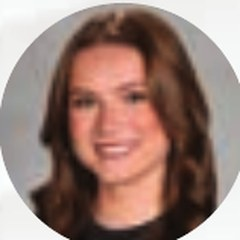
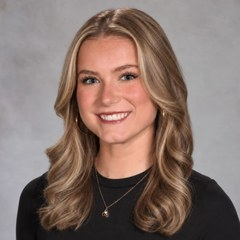
Use Alyssa Aucoin's new headshot on Strength in Numbers
Claude-Session: https://claude.ai/code/session_013rjN9eXsQUGtogBW2y87jx

diff --git a/index.html b/index.html
@@ -133,7 +133,7 @@
                   <li><img src="img/faces/hannah-webster.jpg?v=2" alt="" loading="lazy"><span>Hannah Webster</span></li>
                   <li><img src="img/faces/chad-meyer.jpg?v=2" alt="" loading="lazy"><span>Chad Meyer</span></li>
                   <li><img src="img/faces/kennedy-arundel.jpg?v=2" alt="" loading="lazy"><span>Kennedy Arundel</span></li>
-                  <li><img src="img/faces/alyssa-aucoin.jpg" alt="" loading="lazy"><span>Alyssa Aucoin</span></li>
+                  <li><img src="img/faces/alyssa-aucoin.jpg?v=2" alt="" loading="lazy"><span>Alyssa Aucoin</span></li>
                   <li><img src="img/faces/liz-megginson.jpg?v=2" alt="" loading="lazy"><span>Liz Megginson</span></li>
                 </ul>
               </div>
@@ -142,7 +142,7 @@
         </div>
         <!-- Ring labels are live text (SVG) over the photo circle so they stay sharp; paths follow each ring -->
         <figure class="numbers__org">
-          <img src="img/org-circle.webp?v=1" alt="Stream Chicago platform: Industrial Brokerage, Research &amp; Marketing, Property &amp; Construction Management, Development Services, Investment Management and National Investor Services" width="1658" height="1626" loading="lazy">
+          <img src="img/org-circle.webp?v=2" alt="Stream Chicago platform: Industrial Brokerage, Research &amp; Marketing, Property &amp; Construction Management, Development Services, Investment Management and National Investor Services" width="1658" height="1626" loading="lazy">
           <svg class="org__labels" viewBox="0 0 1658 1626" aria-hidden="true">
             <defs>
               <path id="ring-1" d="M1337.3 908.6 L1338.6 907.4 L1339.8 906.2 L1341.0 905.0 L1342.2 903.8 L1343.4 902.6 L1344.6 901.4 L1345.8 900.2 L1347.0 899.0 L1348.2 897.8 L1349.4 896.6 L1350.5 895.3 L1351.7 894.1 L1352.9 892.8 L1354.0 891.6 L1355.2 890.4 L1356.3 889.1 L1357.4 887.8 L1358.6 886.6 L1359.7 885.3 L1360.8 884.0 L1361.9 882.8 L1363.0 881.5 L1364.1 880.2 L1365.2 878.9 L1366.3 877.6 L1367.4 876.3 L1368.5 875.0 L1369.6 873.7 L1370.6 872.4 L1371.7 871.1 L1372.7 869.7 L1373.8 868.4 L1374.8 867.1 L1375.9 865.8 L1376.9 864.4 L1377.9 863.1 L1378.9 861.7 L1379.9 860.4 L1380.9 859.0 L1381.9 857.7 L1382.9 856.3 L1383.9 855.0 L1384.9 853.6 L1385.9 852.2 L1386.8 850.8 L1387.8 849.5 L1388.7 848.1 L1389.7 846.7 L1390.6 845.3 L1391.6 843.9 L1392.5 842.5 L1393.4 841.1 L1394.3 839.7 L1395.2 838.3 L1396.1 836.9 L1397.0 835.4 L1397.9 834.0 L1398.8 832.6 L1399.7 831.2 L1400.6 829.7 L1401.4 828.3 L1402.3 826.9 L1403.1 825.4 L1404.0 824.0 L1404.8 822.5 L1405.6 821.1 L1406.5 819.6 L1407.3 818.2 L1408.1 816.7 L1408.9 815.3 L1409.7 813.8 L1410.5 812.3 L1411.3 810.9 L1412.1 809.4 L1412.8 807.9 L1413.6 806.4 L1414.4 804.9 L1415.1 803.5 L1415.9 802.0 L1416.6 800.5 L1417.3 799.0 L1418.0 797.5 L1418.8 796.0 L1419.5 794.5 L1420.2 793.0 L1420.9 791.5 L1421.6 790.0 L1422.3 788.4 L1422.9 786.9 L1423.6 785.4 L1424.3 783.9 L1424.9 782.4 L1425.6 780.8 L1426.2 779.3 L1426.9 777.8 L1427.5 776.3 L1428.1 774.7 L1428.8 773.2 L1429.4 771.6 L1430.0 770.1 L1430.6 768.6 L1431.2 767.0 L1431.7 765.5 L1432.3 763.9 L1432.9 762.4 L1433.5 760.8 L1434.0 759.3 L1434.6 757.7 L1435.1 756.1 L1435.6 754.6 L1436.2 753.0 L1436.7 751.5 L1437.2 749.9 L1437.7 748.3 L1438.2 746.8 L1438.7 745.2 L1439.2 743.6 L1439.7 742.0 L1440.2 740.5 L1440.6 738.9 L1441.1 737.3 L1441.6 735.7 L1442.0 734.1 L1442.4 732.6 L1442.9 731.0 L1443.3 729.4 L1443.7 727.8 L1444.1 726.2 L1444.6 724.6 L1445.0 723.0 L1445.3 721.4 L1445.7 719.8 L1446.1 718.2 L1446.5 716.6 L1446.8 715.0 L1447.2 713.4 L1447.6 711.8 L1447.9 710.2 L1448.2 708.6 L1448.6 707.0 L1448.9 705.4 L1449.2 703.8 L1449.5 702.2 L1449.8 700.6 L1450.1 699.0 L1450.4 697.4 L1450.7 695.8 L1451.0 694.2 L1451.2 692.6 L1451.5 691.0 L1451.8 689.3 L1452.0 687.7 L1452.2 686.1 L1452.5 684.5 L1452.7 682.9 L1452.9 681.3 L1453.1 679.7 L1453.4 678.0 L1453.6 676.4 L1453.7 674.8 L1453.9 673.2 L1454.1 671.6 L1454.3 670.0 L1454.5 668.3 L1454.6 666.7 L1454.8 665.1 L1454.9 663.5 L1455.0 661.9 L1455.2 660.3 L1455.3 658.6 L1455.4 657.0 L1455.5 655.4 L1455.6 653.8 L1455.7 652.2 L1455.8 650.5 L1455.9 648.9 L1456.0 647.3 L1456.1 645.7 L1456.1 644.1 L1456.2 642.4 L1456.2 640.8 L1456.3 639.2 L1456.3 637.6 L1456.3 636.0 L1456.4 634.3 L1456.4 632.7 L1456.4 631.1 L1456.4 629.5 L1456.4 627.9 L1456.4 626.3 L1456.3 624.6 L1456.3 623.0 L1456.3 621.4 L1456.2 619.8 L1456.2 618.2 L1456.2 616.6 L1456.1 615.0 L1456.0 613.4 L1456.0 611.7 L1455.9 610.1 L1455.8 608.5 L1455.7 606.9 L1455.6 605.3 L1455.5 603.7 L1455.4 602.1 L1455.3 600.5 L1455.1 598.9 L1455.0 597.3 L1454.9 595.7 L1454.7 594.1 L1454.6 592.5 L1454.4 590.9 L1454.2 589.3 L1454.1 587.7 L1453.9 586.1 L1453.7 584.5 L1453.5 582.9 L1453.3 581.3 L1453.1 579.7 L1452.9 578.1 L1452.7 576.5 L1452.5 574.9 L1452.2 573.3 L1452.0 571.8 L1451.7 570.2 L1451.5 568.6 L1451.2 567.0 L1451.0 565.4 L1450.7 563.9 L1450.4 562.3 L1450.1 560.7 L1449.8 559.1 L1449.5 557.6 L1449.2 556.0 L1448.9 554.4 L1448.6 552.8 L1448.3 551.3 L1448.0 549.7 L1447.6 548.2 L1447.3 546.6 L1446.9 545.0 L1446.6 543.5 L1446.2 541.9 L1445.9 540.4 L1445.5 538.8 L1445.1 537.3 L1444.7 535.7 L1444.3 534.2 L1443.9 532.6 L1443.5 531.1 L1443.1 529.5 L1442.7 528.0 L1442.3 526.5 L1441.8 524.9 L1441.4 523.4 L1440.9 521.9 L1440.5 520.3 L1440.0 518.8 L1439.6 517.3 L1439.1 515.8 L1438.6 514.2 L1438.2 512.7 L1437.7 511.2 L1437.2 509.7 L1436.7 508.2 L1436.2 506.7 L1435.7 505.2 L1435.1 503.7 L1434.6 502.2 L1434.1 500.7 L1433.5 499.2 L1433.0 497.7 L1432.5 496.2 L1431.9 494.7 L1431.3 493.2 L1430.8 491.7 L1430.2 490.3 L1429.6 488.8 L1429.0 487.3 L1428.5 485.8 L1427.9 484.4 L1427.3 482.9 L1426.6 481.4 L1426.0 480.0 L1425.4 478.5 L1424.8 477.0 L1424.2 475.6 L1423.5 474.1"/>
